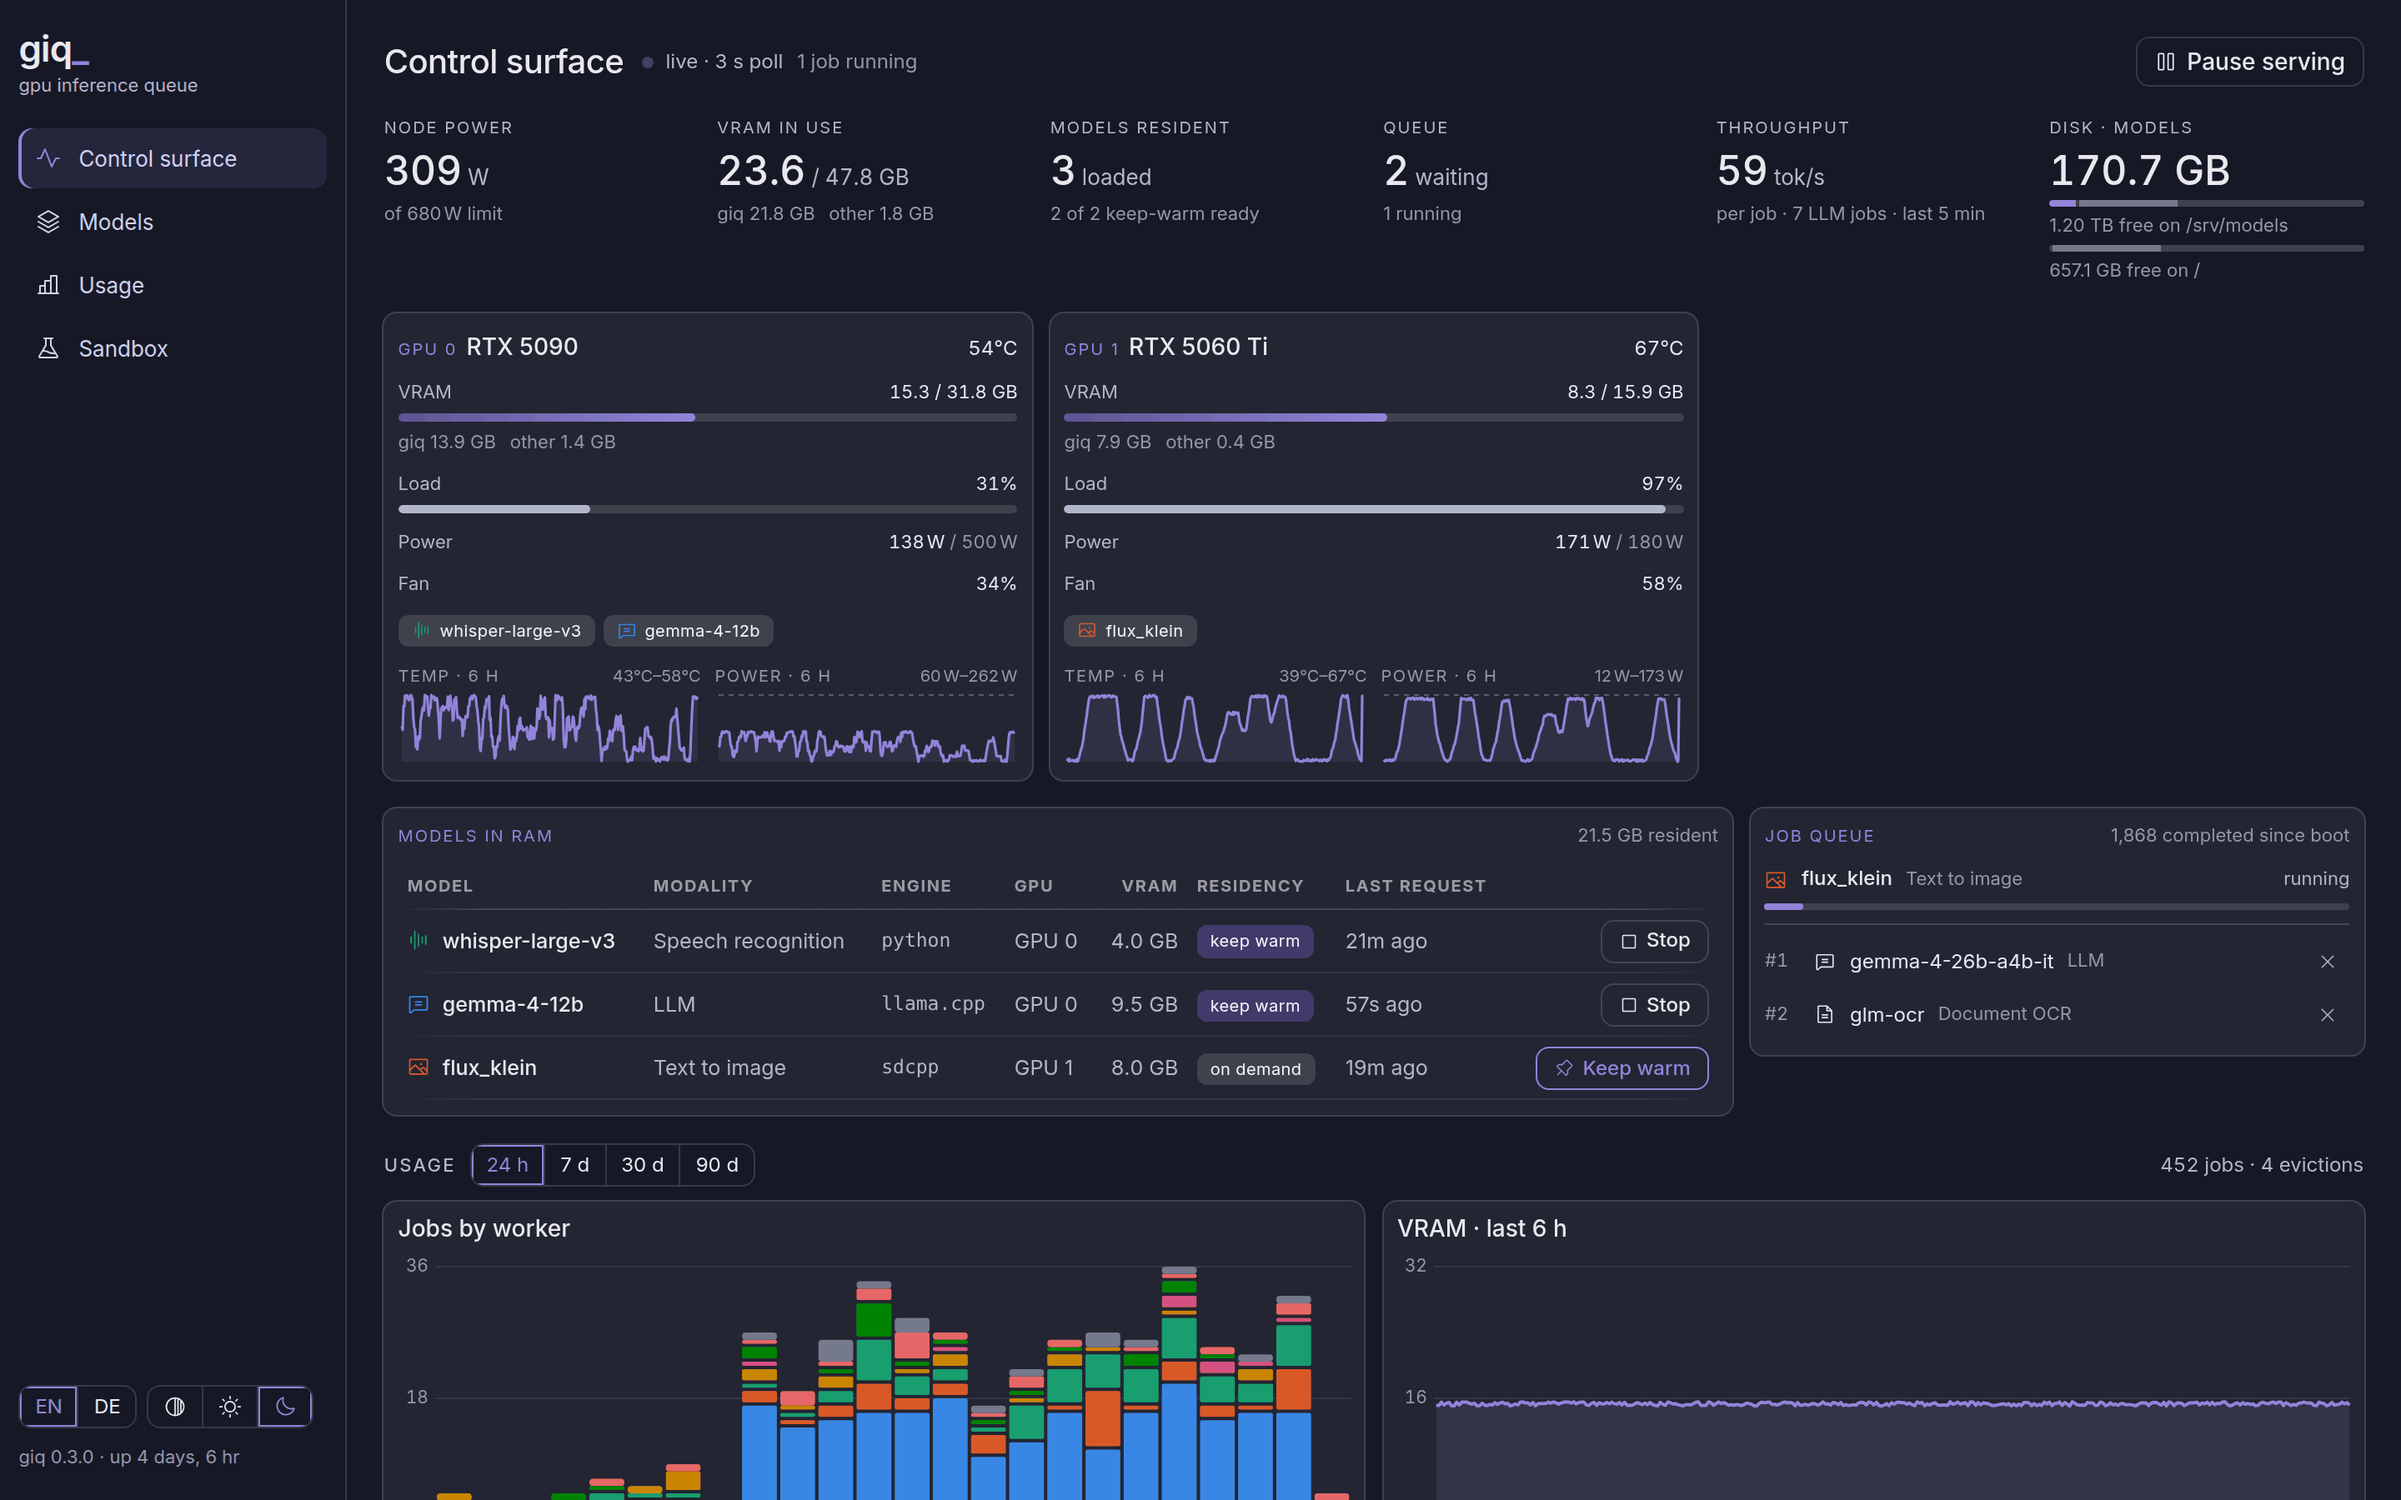
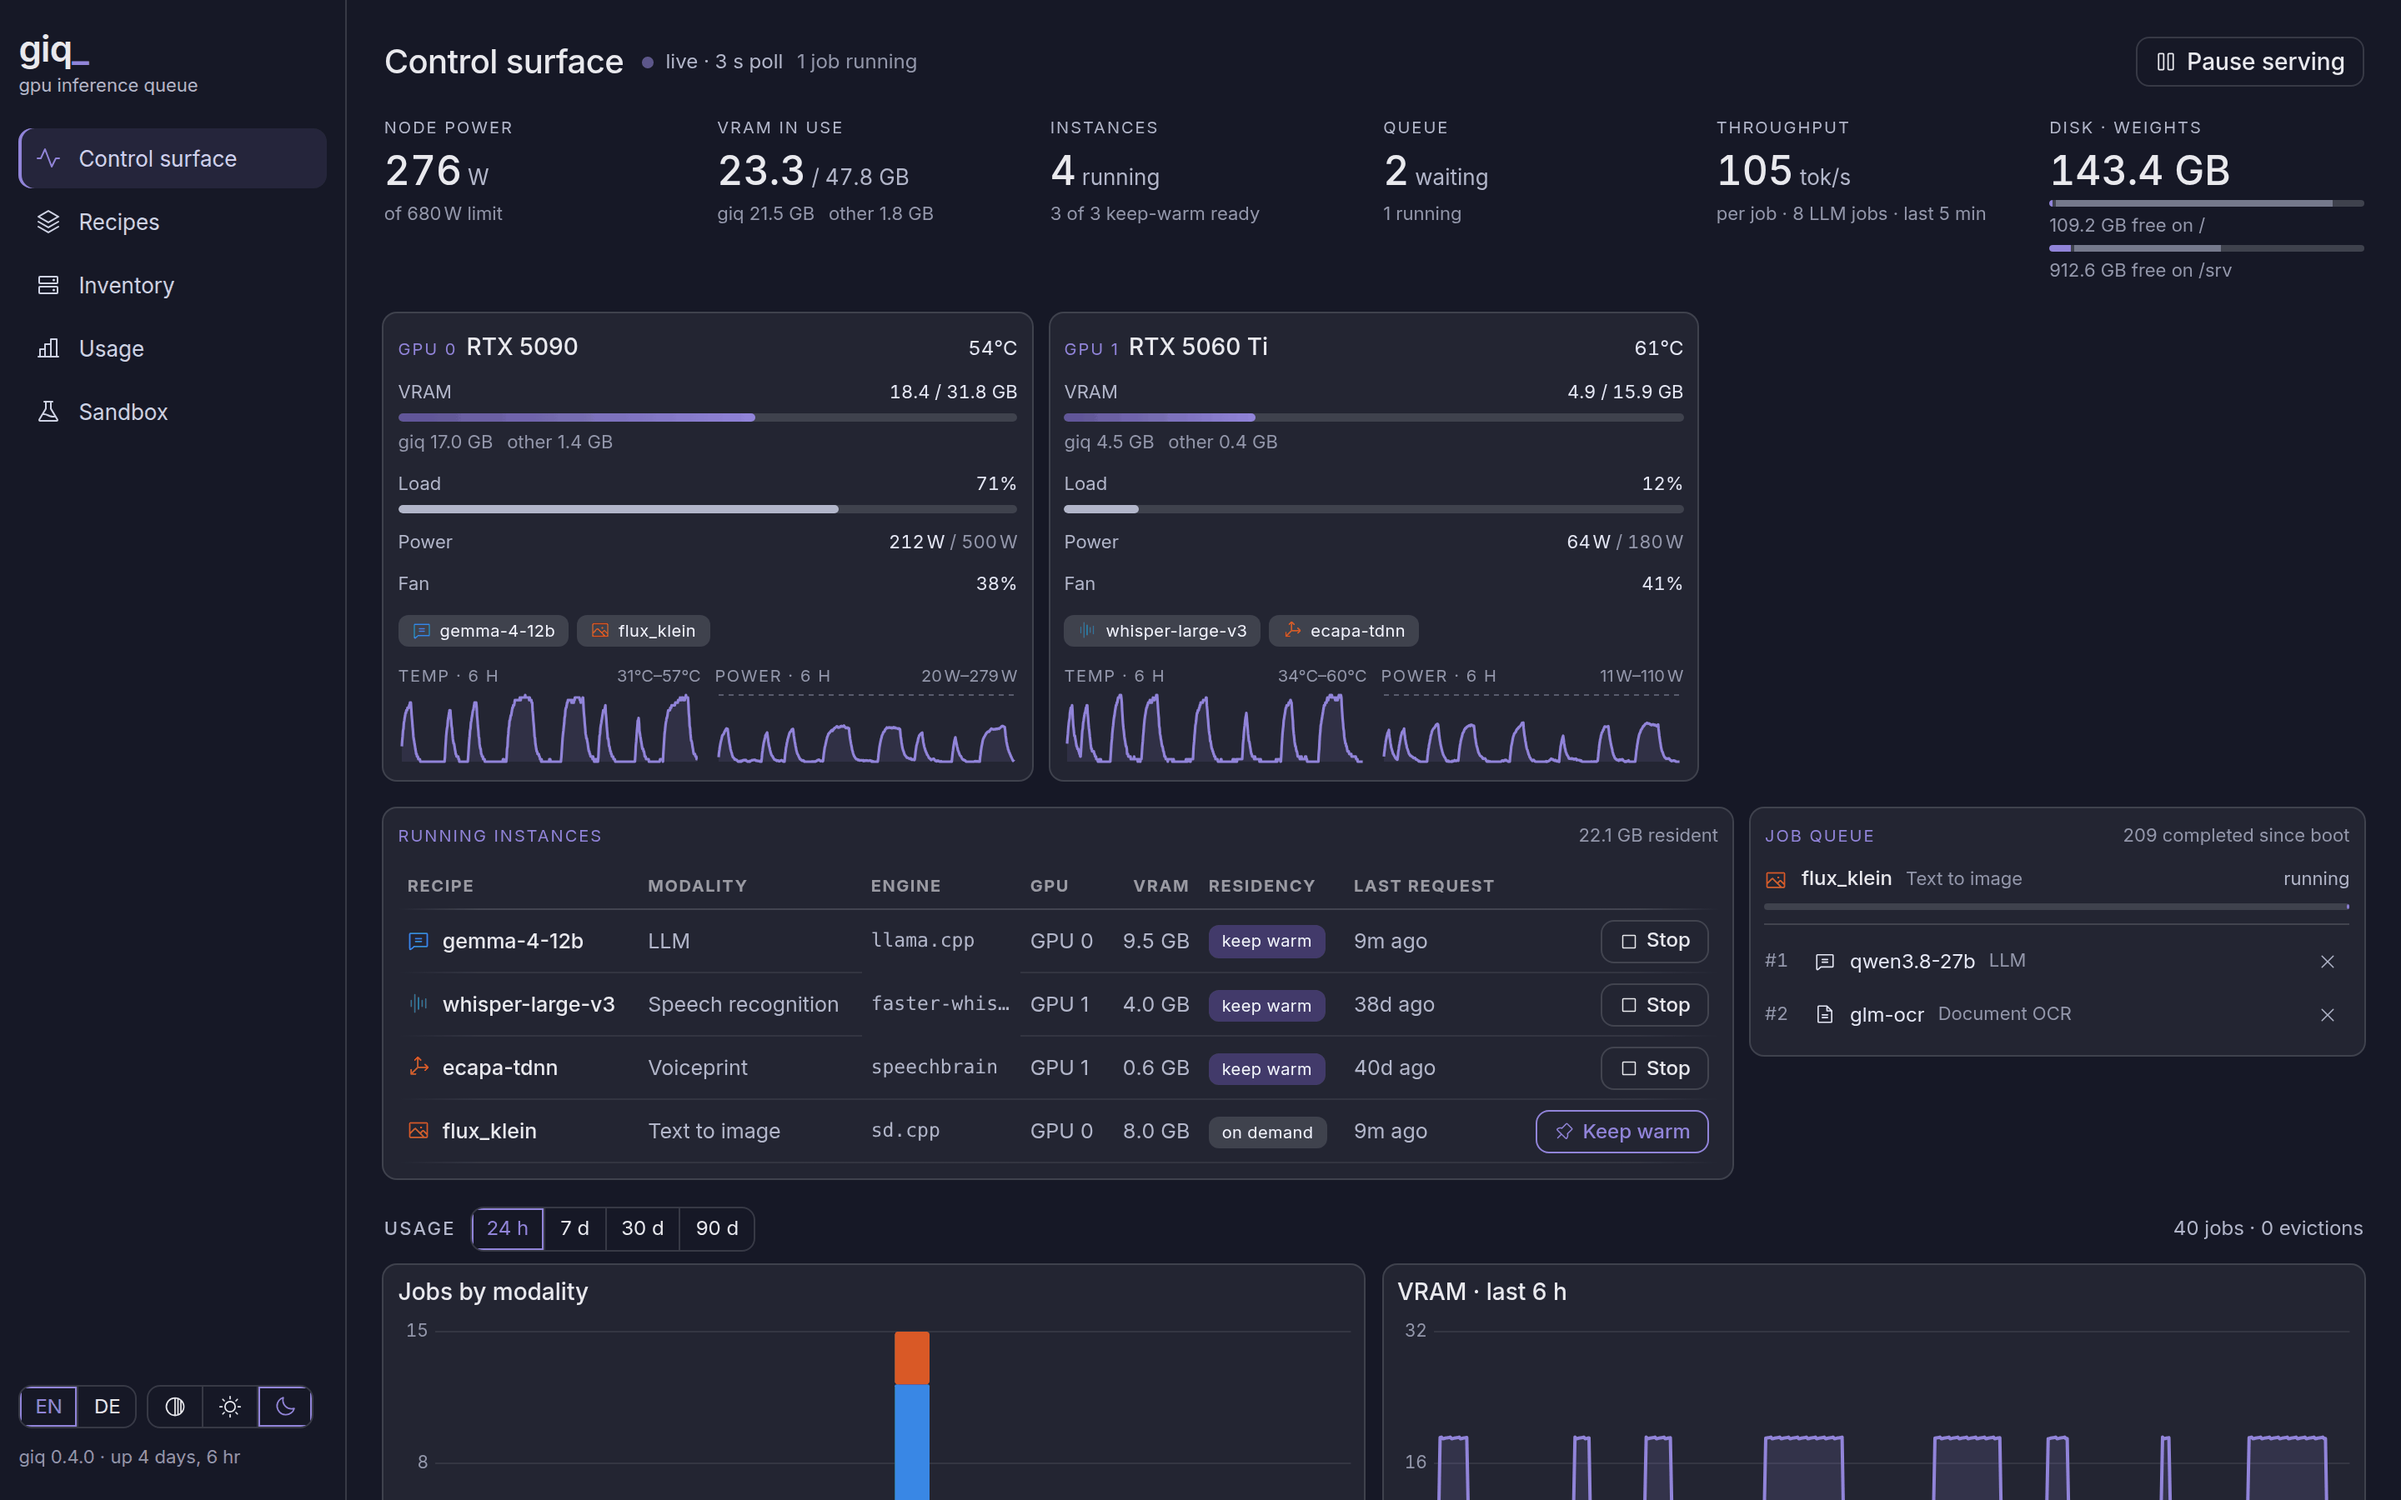
docs: README in the recipe vocabulary, with a diagram of the six terms and new screenshots

diff --git a/README.md b/README.md
@@ -10,7 +10,7 @@ SPDX-License-Identifier: Apache-2.0
 LLM, image, speech, OCR and depth models to every client on the machine
 through a single job queue.
 
-![The control surface: two GPUs with their loaded models, the job queue and the last 24 hours](docs/images/control-surface.png)
+![The control surface: two GPUs with the instances running on each, the job queue and the last 24 hours](docs/images/control-surface.png)
 
 ## Features
 
@@ -48,13 +48,45 @@ through a single job queue.
   is announced at startup and on the dashboard; an optional shared token
   guards everything.
 - **Dashboard** at `/dash`: overview, the recipe catalog, the inventory of
-  weights and engines on disk, usage and a sandbox (chat, tool calls, vision, image generation and edit, transcription,
-  speech, voiceprints), in English and German, light and dark, with its
-  fonts and icons bundled so it works without internet.
+  weights and engines on disk, usage and a sandbox (chat, tool calls,
+  vision, image generation and edit, transcription, speech, voiceprints), in
+  English and German, light and dark, with its fonts and icons bundled so it
+  works without internet.
 
-![The model catalog in German, light theme: residency, GPU binding and engine per model](docs/images/models-de.png)
+![The recipe catalog in German, light theme: residency, GPU binding and engine per recipe](docs/images/recipes-de.png)
 
 ## How it works
+
+Six terms, one meaning each ([ADR-003](docs/ADR-003-domain.md)):
+
+```mermaid
+flowchart TB
+    weights["<b>Weights</b><br/>a GGUF, a checkpoint,<br/>an HF repository"]
+    engine["<b>Engine</b><br/>llama.cpp · vllm · sd.cpp<br/>and the Python runtimes"]
+    recipe["<b>Recipe</b> — one YAML file<br/>weights + engine + parameters<br/>its VRAM figure<br/>the modalities it serves"]
+    instance["<b>Instance</b><br/>a recipe running on a card<br/>a process, a port, its VRAM"]
+    residency{{"<b>Residency</b><br/>keep warm · on demand · off"}}
+    client(["Client<br/>model: gemma-4-12b"])
+    queue["Job queue"]
+    weights --> recipe
+    engine --> recipe
+    recipe -->|"started on GPU 0 or GPU 1"| instance
+    residency -.->|"keeps it, or lets it go"| instance
+    client -->|"a job: modality + recipe"| queue
+    queue -->|"runs on"| instance
+```
+
+- **Weights** are the files on disk; one checkpoint can serve several
+  recipes, and the Inventory lists each once.
+- An **engine** is the runtime that executes them.
+- A **recipe** is weights + engine + parameters, with its VRAM figure
+  (measured on real hardware, or marked as an estimate).
+  Its name is what a client sends as `model`; it serves one or more
+  **modalities** (`llm`, `text2image`, `ocr` …).
+- An **instance** is a recipe running on a card. **Residency** decides
+  whether it stays: *keep warm* (a resident instance, reloaded after
+  eviction and on boot), *on demand* (started for a job, stopped when idle),
+  or *off*.
 
 A request names a recipe (`model`) and becomes a job, which waits in the
 queue for an instance of that recipe — the recipe running on a card. If one
@@ -71,8 +103,10 @@ Instances run in their own processes — `llama-server`, `sd-server` or
 started with `CUDA_VISIBLE_DEVICES` set to their card, so stopping one gives
 its VRAM back. (Batch `stt` is the exception: faster-whisper runs inside
 giq's process, and its CUDA context stays until giq restarts.)
-`POST /control/pause` unloads everything and hands the GPUs back until
+`POST /control/pause` stops every instance and hands the GPUs back until
 `/control/resume`.
+
+![The inventory: every checkpoint once, with its format, licence, the recipes that load it and its size; disks and engines alongside](docs/images/inventory.png)
 
 ## Quick start
 

diff --git a/docs/development.md b/docs/development.md
@@ -70,7 +70,7 @@ scope.
 
 The UI is in English and German.
 
-![The Models view in German, light theme](images/models-de.png)
+![The Recipes view in German, light theme](images/recipes-de.png)
 
 Strings live in
 `frontend/src/locales/<lang>/<namespace>.json` (namespaces `common`,
